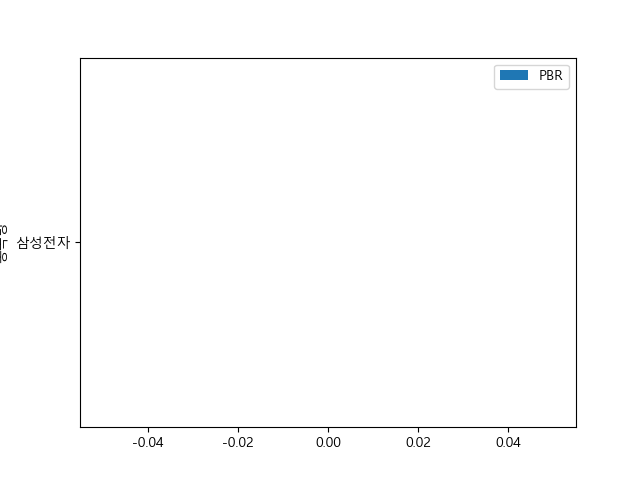
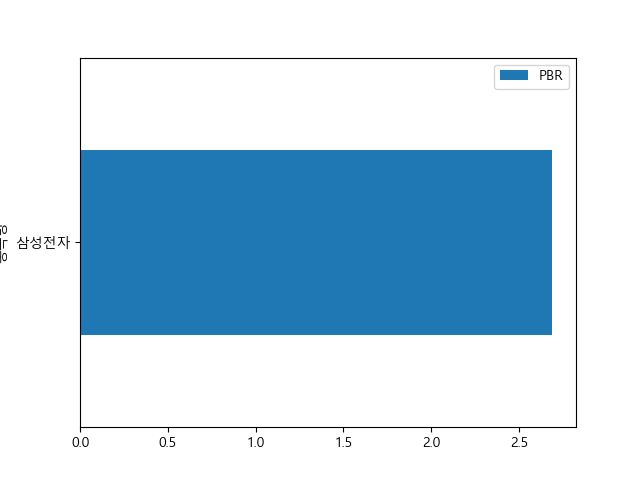
feat: 기존 ini 설정 파일 json으로 변경

diff --git a/fdap/app/client/client.py b/fdap/app/client/client.py
@@ -4,13 +4,26 @@ from typing import Union
 
 
 class Client:
+    """
+    requests wrapper
+    """
 
     def __init__(self, host: str = None):
+        """
+
+        Args:
+            host(str): 요청할 웹 서버의 호스트정보(URL), ex) https://www.example.com
+        """
         self._host = host
         self._response = None
         self._error = {}
 
     def is_success(self) -> bool:
+        """
+        응답의 성공여부 확인
+        Returns:
+            bool: 응답 상태 코드가 200번대이면 True, 아니면 False
+        """
         if self._response is None:
             return False
         elif isinstance(self._response, requests.Response):
@@ -19,6 +32,14 @@ class Client:
         return False
 
     def _set_response(self, response: requests.Response) -> Union[str, dict]:
+        """
+        응답 객체 결과 등록 및 에러 유무 체크
+        Args:
+            response(requests.Response): requests를 통해 받은 응답을 현재 wrapper에 등록하여 에러 체크 및 응답 결과를 json 혹은 text로 변환
+
+        Returns:
+            Union[str, dict]
+        """
         self._response = response
         if self.is_success():
             try:
@@ -31,14 +52,39 @@ class Client:
             return self._response.text
 
     def get_error(self) -> dict:
+        """
+        _set_response 메서드에서 등록된 에러를 출력
+        Returns:
+            dict: 'status_code': 응답 코드, 'message': 응답 메세지
+        """
         return self._error
 
     def get_response(self) -> requests.Response:
+        """
+        requests 패키지에서 받은 응답 객체 가져오기
+
+        Returns:
+            requests.Response: 응답 객체 원본
+        """
         return self._response
 
     def get_host(self) -> str:
+        """
+        host 가져오기 getter
+
+        Returns:
+            str: ex) https://www.example.com
+        """
         return self._host
 
     def set_host(self, host: str):
+        """
+
+        Args:
+            host(str): 호스트 정보 입력 setter
+
+        Returns:
+            Client:
+        """
         self._host = host
         return self

diff --git a/fdap/app/tistory/tistory_client.py b/fdap/app/tistory/tistory_client.py
@@ -2,11 +2,11 @@ import selenium.common.exceptions
 import time
 import requests
 from typing import Union
-from fdap.app.utils.util import make_url, get_query_str_dict, config_ini
+from fdap.utils.util import make_url, get_query_str_dict, config_json
 from selenium import webdriver
 from fdap.definitions import ROOT_DIR
 from configparser import SectionProxy
-from fdap.app.utils.customlogger import CustomLogger
+from fdap.utils.customlogger import CustomLogger
 from fdap.app.contracts.blog_client import *
 from fdap.app.tistory.tistory_data import *
 
@@ -14,7 +14,7 @@ from fdap.app.tistory.tistory_data import *
 class TistoryLogin(BlogEndPoint, BlogLogin):
     _end_point = '/oauth'
 
-    def __init__(self, host: str, config: SectionProxy):
+    def __init__(self, host: str, config: Union[SectionProxy, dict]):
         super().__init__(host)
         self._config = config
         self._logger = CustomLogger.logger('automatic-posting', __name__)
@@ -209,7 +209,7 @@ class TistoryClient(BlogClient):
 
     def __init__(self, host: str):
         super().__init__(host=host)
-        self._config = config_ini('tistory')
+        self._config = config_json('tistory')
         self._logger = CustomLogger.logger('automatic-posting', __name__)
         self.blog_name = self._config['api']['blog_name']
 

diff --git a/fdap/app/kiwoom/kiwoom_service.py b/fdap/app/kiwoom/kiwoom_service.py
@@ -4,8 +4,8 @@ from fdap.app.kiwoom.koapy_wrapper import KoapyWrapper
 from pyhocon import ConfigFactory, HOCONConverter
 from typing import List
 from fdap.app.kiwoom.basic_info import BasicInfo
-from fdap.app.utils.util import config_ini
-from fdap.definitions import MODULE_PATH
+from fdap.utils.util import config_json
+from fdap.definitions import APP_PATH
 from fdap.app.contracts.service import Service
 
 
@@ -16,11 +16,11 @@ class KiwoomService(Service):
         super().__init__()
 
         if _id is None or password is None:
-            config = config_ini('koapy')
+            config = config_json('koapy')
             _id = config['account']['id']
             password = config['account']['password']
 
-        conf = ConfigFactory.parse_file(MODULE_PATH + '/kiwoom/config.conf')
+        conf = ConfigFactory.parse_file(APP_PATH + '/kiwoom/config.conf')
         current_id = conf.get('koapy.backend.kiwoom_open_api_plus.credential.user_id')
         if exists('./koapy.conf'):
             current_id = ConfigFactory.parse_file('./koapy.conf').get(

diff --git a/fdap/app/opendart/opendart_service.py b/fdap/app/opendart/opendart_service.py
@@ -2,7 +2,7 @@ import xmltodict
 import os
 from fdap.app.opendart.opendart_client import OpenDartClient
 from fdap.app.opendart.opendart_data import *
-from fdap.app.utils.util import config_ini
+from fdap.utils.util import config_json
 from fdap.app.opendart.report_code import ReportCode
 from typing import List, Dict, Union
 from fdap.app.contracts.service import Service
@@ -18,7 +18,7 @@ class OpenDartService(Service):
     Q3: ReportCode.Q3 = ReportCode.Q3
     Q4: ReportCode.Q4 = ReportCode.Q4
     QUARTERS: dict = ReportCode.__members__
-    _config: ConfigParser
+    _config: Union[ConfigParser, dict]
     _client: OpenDartClient
 
     def __init__(self, url: str = None, api_key: str = None):
@@ -29,7 +29,7 @@ class OpenDartService(Service):
         """
         super().__init__()
         if url is None or api_key is None:
-            self._config = config_ini('opendart')
+            self._config = config_json('opendart')
             url = self._config['api']['url']
             api_key = self._config['api']['api_key']
 

diff --git a/fdap/app/opendart/finance_data.py b/fdap/app/opendart/finance_data.py
@@ -1,6 +1,6 @@
 import dataclasses
 from fdap.app.opendart.opendart_service import OpenDartService
-from fdap.app.utils.data import BaseData
+from fdap.utils.data import BaseData
 from typing import Dict
 from fdap.app.opendart.opendart_data import AcntCollection
 
@@ -54,10 +54,6 @@ class FinanceData(BaseData):
 
                     self.deficit_count = od_service.get_deficit_count(corp_code, account.bsns_year)
 
-        self.calculate_flow_rate()
-        self.calculate_debt_rate()
-        self.calculate_roe()
-
         return self
 
     def calculate_flow_rate(self):
@@ -79,7 +75,7 @@ class FinanceData(BaseData):
         return self
 
     def calculate_pbr(self, current_price: int, issue_cnt: int):
-        self.pbr = round((current_price / (self.total_capital - self.total_debt)) / issue_cnt, 2)
+        self.pbr = round(current_price / ((self.total_capital - self.total_debt) / issue_cnt), 2)
         return self
 
     def calculate_roe(self):

diff --git a/fdap/database/database.py b/fdap/database/database.py
@@ -1,0 +1,18 @@
+from sqlalchemy import create_engine
+from sqlalchemy.orm import scoped_session, sessionmaker
+from sqlalchemy.ext.declarative import declarative_base
+from fdap.utils.util import config_json
+
+config = config_json('database')
+
+access_info = 'mysql://{id}:{passwd}@{host}/{db}?charset=utf8'.format(id=config['id'], passwd=config['passwd'],
+                                                                      host=config['host'], db=config['db'])
+
+engine = create_engine(access_info, convert_unicode=False)
+db_session = scoped_session(sessionmaker(autocommit=False, autoflush=False, bind=engine))
+Base = declarative_base()
+Base.query = db_session.query_property()
+
+
+def init_db():
+    Base.metadata.create_all(engine)

diff --git a/fdap/utils/customlogger.py b/fdap/utils/customlogger.py
@@ -1,8 +1,9 @@
+import json
 import logging
 import logging.config
 import os
 
-from fdap.app.utils.loggeradapter import LoggerAdapter
+from fdap.utils.loggeradapter import LoggerAdapter
 from fdap.definitions import CONFIG_PATH, LOG_PATH
 from os.path import exists
 
@@ -16,7 +17,10 @@ class CustomLogger:
         if not exists(LOG_PATH + '/tests'):
             os.mkdir(LOG_PATH + '/tests')
 
-        logging.config.fileConfig(CONFIG_PATH + '\\logger.ini')
+        with open(CONFIG_PATH + '/logger.json') as f:
+            json_dict = json.load(f)
+
+        logging.config.dictConfig(json_dict)
         logger = logging.getLogger(logger_name)
         logger = LoggerAdapter(tag, logger)
         return logger

diff --git a/prototype/tistory.py b/prototype/tistory.py
@@ -15,12 +15,10 @@ class Tistory(Handler):
 
     def _login(self):
         self.TAG += '-login'
-        from fdap.definitions import CONFIG_PATH
         from fdap.app.tistory.tistory_client import TistoryLogin, TistoryClient, LoginInfo
-        from configparser import ConfigParser
+        from fdap.utils.util import config_json
 
-        config = ConfigParser()
-        config.read(CONFIG_PATH + '/tistory.ini')
+        config = config_json('tistory')
         api_config = config['api']
         kakao_config = config['kakao']
         webdriver_config = config['webdriver']

diff --git a/fdap/app/refine/refine.py b/fdap/app/refine/refine.py
@@ -35,6 +35,10 @@ class Refine(Service):
         finance_data = FinanceData()
         refine_data.finance_data = finance_data.map(acnt)
         issue_cnt = int((basic_info.capital * 100000000) / basic_info.current_price)
+
+        refine_data.finance_data.calculate_flow_rate()
+        refine_data.finance_data.calculate_debt_rate()
+        refine_data.finance_data.calculate_roe()
         refine_data.finance_data.calculate_pbr(basic_info.current_price, issue_cnt)
         refine_data.finance_data.calculate_per(basic_info.current_price, issue_cnt)
 

diff --git a/fdap/utils/util.py b/fdap/utils/util.py
@@ -54,6 +54,13 @@ def config_ini(name: str) -> ConfigParser:
     return config_parser
 
 
+def config_json(name: str) -> dict:
+    config_parser = ConfigParser()
+
+    with open(CONFIG_PATH + '/{filename}.json'.format(filename=name)) as f:
+        return json.load(f)
+
+
 def object_to_json(obj: object):
     return json.dumps(obj, default=lambda o: o.__dict__, sort_keys=True, indent=2, ensure_ascii=False)
 

diff --git a/prototype/handler.py b/prototype/handler.py
@@ -1,6 +1,6 @@
 from abc import ABC, abstractmethod
-from fdap.app.utils.loggeradapter import LoggerAdapter
-from fdap.app.utils.customlogger import CustomLogger
+from fdap.utils.loggeradapter import LoggerAdapter
+from fdap.utils.customlogger import CustomLogger
 from datetime import datetime
 from fdap.app.contracts.jsonable import Jsonable
 from fdap.definitions import ROOT_DIR

diff --git a/fdap/app/refine/refine_data.py b/fdap/app/refine/refine_data.py
@@ -1,5 +1,5 @@
 import dataclasses
-from fdap.app.utils.data import BaseData, BaseCollection
+from fdap.utils.data import BaseData, BaseCollection
 from fdap.app.kiwoom.basic_info import BasicInfo
 from fdap.app.opendart.finance_data import FinanceData
 from fdap.app.contracts.convertible import TableData
